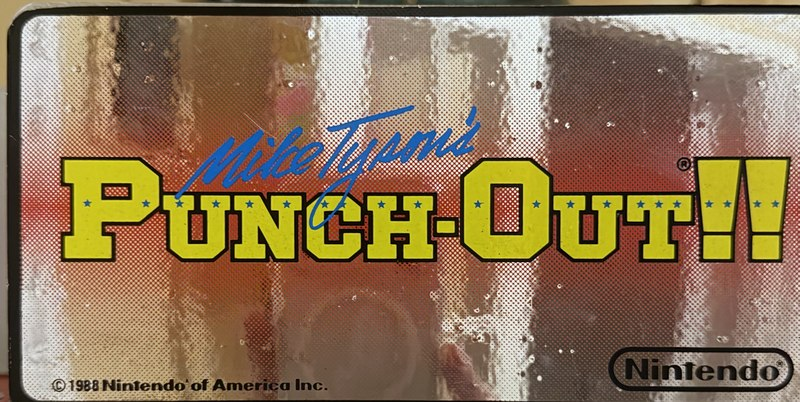
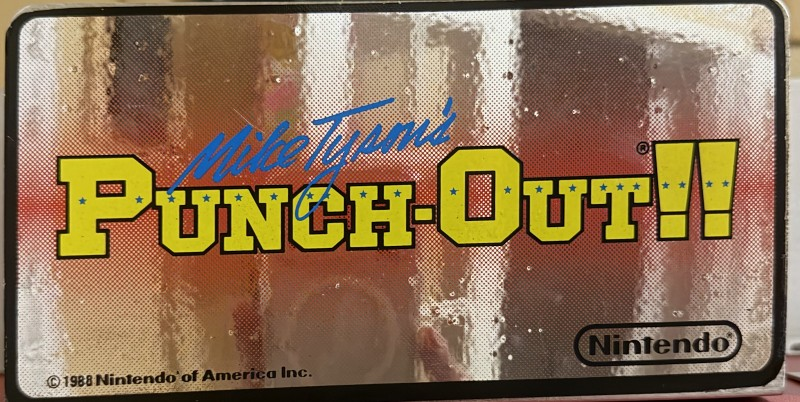
Recrop the Punch-Out!! topper: the old frame clipped the right edge

diff --git a/signage.html b/signage.html
@@ -123,7 +123,7 @@
       <figure class="shot"><img src="media/thumbs/pc10-dr-mario.jpg" data-full="media/2026/pc10-dr-mario.jpg" alt="Original Nintendo PlayChoice-10 arcade topper for Dr. Mario" loading="lazy" width="800" height="402"><figcaption><b>Dr. Mario</b> &mdash; A capsule laid across a green checkerboard, viruses loose around it</figcaption></figure>
       <figure class="shot"><img src="media/thumbs/pc10-mega-man-3.jpg" data-full="media/2026/pc10-mega-man-3.jpg" alt="Original Nintendo PlayChoice-10 arcade topper for Mega Man 3" loading="lazy" width="800" height="402"><figcaption><b>Mega Man 3</b> &mdash; Chrome lettering, and Rush along for the ride</figcaption></figure>
       <figure class="shot"><img src="media/thumbs/pc10-metroid.jpg" data-full="media/2026/pc10-metroid.jpg" alt="Original Nintendo PlayChoice-10 arcade topper for Metroid" loading="lazy" width="800" height="402"><figcaption><b>Metroid</b> &mdash; NEW ADVENTURE, and Samus in yellow on a field of yellow &mdash; the copyright line reads 1987</figcaption></figure>
-      <figure class="shot"><img src="media/thumbs/pc10-punch-out.jpg" data-full="media/2026/pc10-punch-out.jpg" alt="Original Nintendo PlayChoice-10 arcade topper for Mike Tyson's Punch-Out!!" loading="lazy" width="800" height="402"><figcaption><b>Mike Tyson's Punch-Out!!</b> &mdash; Printed on mirror foil &mdash; it reflects whatever is standing in front of it</figcaption></figure>
+      <figure class="shot"><img src="media/thumbs/pc10-punch-out.jpg?v=2" data-full="media/2026/pc10-punch-out.jpg?v=2" alt="Original Nintendo PlayChoice-10 arcade topper for Mike Tyson's Punch-Out!!" loading="lazy" width="800" height="402"><figcaption><b>Mike Tyson's Punch-Out!!</b> &mdash; Printed on mirror foil &mdash; it reflects whatever is standing in front of it</figcaption></figure>
       <figure class="shot"><img src="media/thumbs/pc10-ninja-gaiden.jpg" data-full="media/2026/pc10-ninja-gaiden.jpg" alt="Original Nintendo PlayChoice-10 arcade topper for Ninja Gaiden" loading="lazy" width="800" height="402"><figcaption><b>Ninja Gaiden</b> &mdash; NEW GAME! sprayed on the brick, Ryu drawn as a silhouette</figcaption></figure>
       <figure class="shot"><img src="media/thumbs/pc10-pro-wrestling.jpg" data-full="media/2026/pc10-pro-wrestling.jpg" alt="Original Nintendo PlayChoice-10 arcade topper for Pro Wrestling" loading="lazy" width="800" height="402"><figcaption><b>Pro Wrestling</b> &mdash; NEW GAME! hand-lettered across a wallpaper of Nintendo logos</figcaption></figure>
       <figure class="shot"><img src="media/thumbs/pc10-rad-racer.jpg" data-full="media/2026/pc10-rad-racer.jpg" alt="Original Nintendo PlayChoice-10 arcade topper for Rad Racer" loading="lazy" width="800" height="402"><figcaption><b>Rad Racer</b> &mdash; The first topper to come off the <a href="wanted.html">hunt list</a></figcaption></figure>
